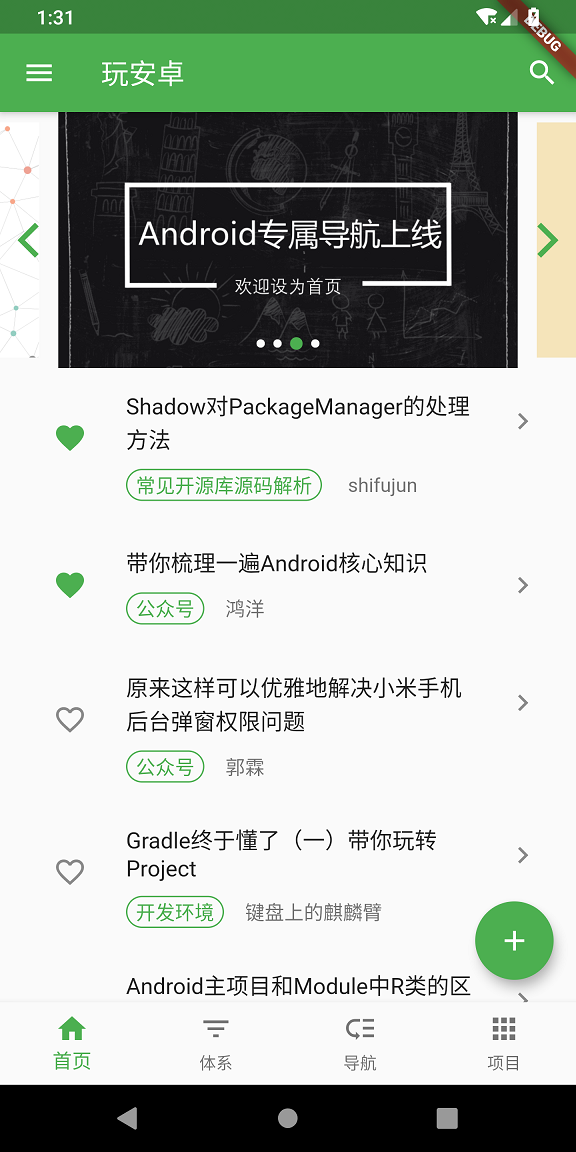
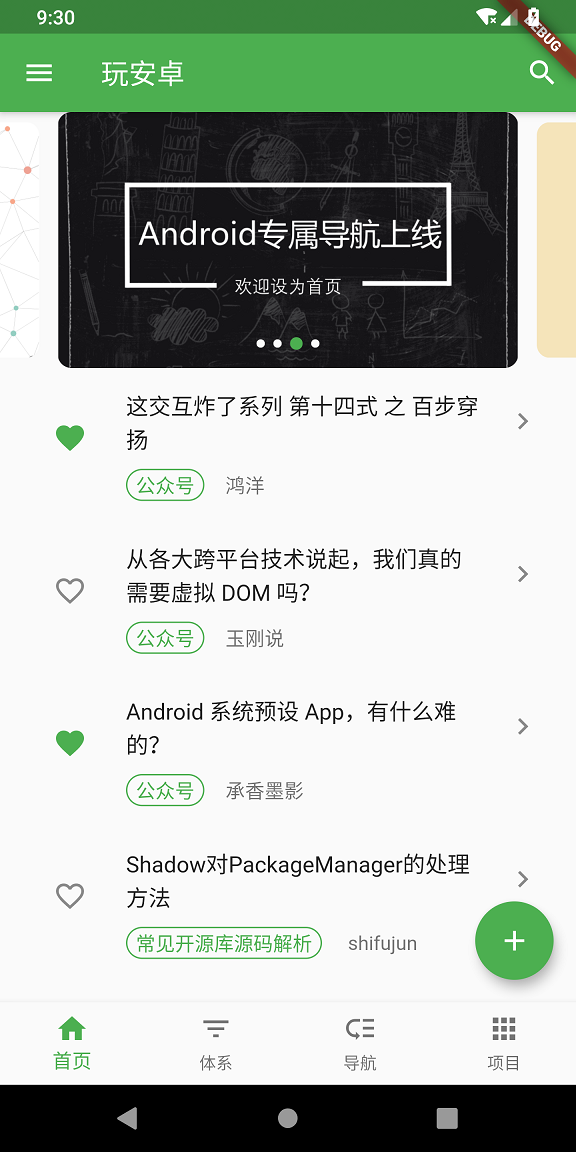
首页优化

diff --git a/lib/pages/homePage.dart b/lib/pages/homePage.dart
@@ -62,57 +62,64 @@ class _HomePageState extends State<HomePage> {
   @override
   Widget build(BuildContext context) {
     return Scaffold(
-      body: Column(
-        children: <Widget>[
-          Container(
-            width: MediaQuery.of(context).size.width,
-            //1.8是banner宽高比，0.8是viewportFraction的值
-            height: MediaQuery.of(context).size.width / 1.8 * 0.8,
-            child: Swiper(
-              itemCount: bannerDatas.length,
-              itemBuilder: (BuildContext context, int index) {
-                return Image.network(
-                  bannerDatas[index].imagePath,
+      body: ListView.builder(
+          controller: _scrollController,
+          shrinkWrap: true,
+          itemCount: articleDatas.length + 1, //+1 添加banner显示
+          itemBuilder: (BuildContext context, int position) {
+            if (position == 0) return getBanner();
+            if (position < articleDatas.length - 1) //减去banner位置
+              return getRow(position);
+            return null;
+          }),
+    );
+  }
+
+  Widget getBanner() {
+    return Container(
+      width: MediaQuery.of(context).size.width,
+      //1.8是banner宽高比，0.8是viewportFraction的值
+      height: MediaQuery.of(context).size.width / 1.8 * 0.8,
+      child: Swiper(
+        itemCount: bannerDatas.length,
+        itemBuilder: (BuildContext context, int index) {
+          return Container(
+            decoration: BoxDecoration(
+                borderRadius: BorderRadius.circular((10.0)), // 圆角度
+                image: DecorationImage(
+                  image: NetworkImage(bannerDatas[index].imagePath),
                   fit: BoxFit.fill,
-                );
-              },
-              loop: false,
-              autoplay: false,
-              autoplayDelay: 3000,
-              //触发时是否停止播放
-              autoplayDisableOnInteraction: true,
-              duration: 600,
-              //默认分页按钮
-              control: SwiperControl(),
-              controller: _swiperController,
-              //默认指示器
-              pagination: SwiperPagination(
-                // SwiperPagination.fraction 数字1/5，默认点
-                builder: DotSwiperPaginationBuilder(size: 6, activeSize: 9),
-              ),
+                )),
+//            child: Image.network(
+//              bannerDatas[index].imagePath,
+//              fit: BoxFit.fill,
+//            ),
+          );
+        },
+        loop: false,
+        autoplay: false,
+        autoplayDelay: 3000,
+        //触发时是否停止播放
+        autoplayDisableOnInteraction: true,
+        duration: 600,
+        //默认分页按钮
+//        control: SwiperControl(),
+        controller: _swiperController,
+        //默认指示器
+        pagination: SwiperPagination(
+          // SwiperPagination.fraction 数字1/5，默认点
+          builder: DotSwiperPaginationBuilder(size: 6, activeSize: 9),
+        ),
 
-              //视图宽度，即显示的item的宽度屏占比
-              viewportFraction: 0.8,
-              //两侧item的缩放比
-              scale: 0.9,
+        //视图宽度，即显示的item的宽度屏占比
+        viewportFraction: 0.8,
+        //两侧item的缩放比
+        scale: 0.9,
 
-              onTap: (int index) {
-                //点击事件，返回下标
-                print("index-----" + index.toString());
-              },
-            ),
-          ),
-          Flexible(
-            child: ListView.builder(
-                controller: _scrollController,
-                shrinkWrap: true,
-                itemCount: articleDatas.length,
-                itemBuilder: (BuildContext context, int position) {
-                  if (position.isOdd) Divider();
-                  return getRow(position);
-                }),
-          )
-        ],
+        onTap: (int index) {
+          //点击事件，返回下标
+          print("index-----" + index.toString());
+        },
       ),
     );
   }
@@ -171,6 +178,7 @@ class _HomePageState extends State<HomePage> {
             trailing: Icon(Icons.chevron_right),
           )),
       onTap: () {
+        if (0 == 1) return;
         Navigator.push(
           context,
           MaterialPageRoute(
